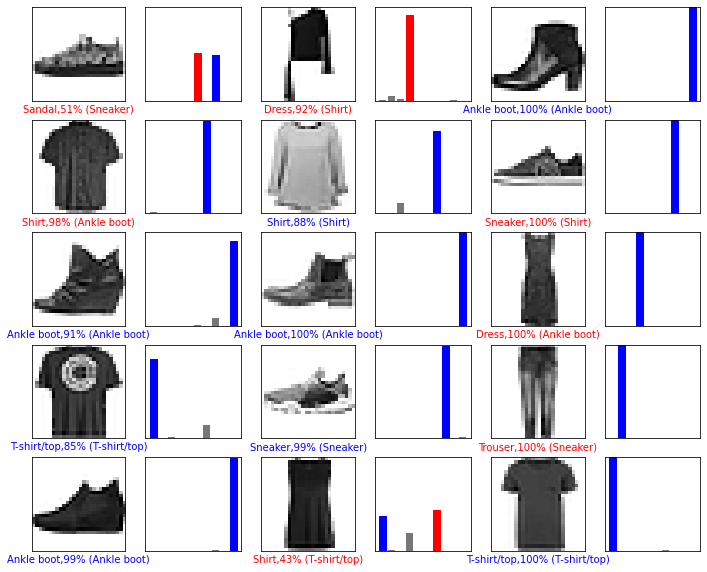
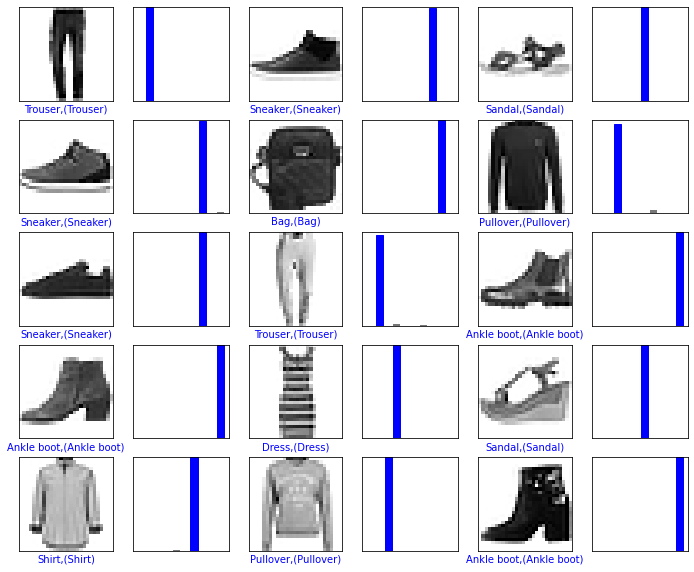
feedforward

diff --git a/feedforward/README.md b/feedforward/README.md
@@ -340,68 +340,73 @@ print(metric)
 #### 预测
 
 ```python
-# 预测
+class_names = ['T-shirt/top', 'Trouser', 'Pullover', 'Dress', 'Coat',
+               'Sandal', 'Shirt', 'Sneaker', 'Bag', 'Ankle boot']
+
+#从测试集中取出一组样本，输入模型进行预测
 test_ = ds_test.create_dict_iterator().get_next()
+#利用key值选出样本
 test = Tensor(test_['x'], mindspore.float32)
 predictions = model.predict(test)
 softmax = nn.Softmax()
 predictions = softmax(predictions)
+
 predictions = predictions.asnumpy()
+true_label = test_['y'].asnumpy()
+true_image = test_['x'].asnumpy()
+
 for i in range(15):
     p_np = predictions[i, :]
-    p_list = p_np.tolist()
-    print('第' + str(i) + '个sample预测结果：', p_list.index(max(p_list)), '   真实结果：', test_['y'][i])
+    pre_label = np.argmax(p_np)
+    print('第' + str(i) + '个sample预测结果：', class_names[pre_label], '   真实结果：', class_names[true_label[i]])
 ```
 
-    第0个sample预测结果： 5    真实结果： 0
-    第1个sample预测结果： 3    真实结果： 6
-    第2个sample预测结果： 9    真实结果： 9
-    第3个sample预测结果： 6    真实结果： 6
-    第4个sample预测结果： 6    真实结果： 6
-    第5个sample预测结果： 7    真实结果： 7
-    第6个sample预测结果： 9    真实结果： 9
-    第7个sample预测结果： 9    真实结果： 9
-    第8个sample预测结果： 3    真实结果： 3
-    第9个sample预测结果： 0    真实结果： 0
-    第10个sample预测结果： 7    真实结果： 7
-    第11个sample预测结果： 1    真实结果： 1
-    第12个sample预测结果： 9    真实结果： 9
-    第13个sample预测结果： 6    真实结果： 0
-    第14个sample预测结果： 0    真实结果： 0
+    第0个sample预测结果： Trouser    真实结果： Trouser
+    第1个sample预测结果： Sneaker    真实结果： Sneaker
+    第2个sample预测结果： Sandal    真实结果： Sandal
+    第3个sample预测结果： Sneaker    真实结果： Sneaker
+    第4个sample预测结果： Bag    真实结果： Bag
+    第5个sample预测结果： Pullover    真实结果： Pullover
+    第6个sample预测结果： Sneaker    真实结果： Sneaker
+    第7个sample预测结果： Trouser    真实结果： Trouser
+    第8个sample预测结果： Ankle boot    真实结果： Ankle boot
+    第9个sample预测结果： Ankle boot    真实结果： Ankle boot
+    第10个sample预测结果： Dress    真实结果： Dress
+    第11个sample预测结果： Sandal    真实结果： Sandal
+    第12个sample预测结果： Shirt    真实结果： Shirt
+    第13个sample预测结果： Pullover    真实结果： Pullover
+    第14个sample预测结果： Ankle boot    真实结果： Ankle boot
 
 #### 对预测结果可视化
 
 ```python
 # -------------------定义可视化函数--------------------------------
 # 输入预测结果序列，真实标签序列，以及图片序列
-# 目标是根据预测值对错，让其标签显示为红色或者蓝色。对：标签为红色；错：标签为蓝色
-def plot_image(predictions_array, true_label, img):
+# 目标是根据预测值对错，让其标签显示为红色或者蓝色。对：标签为蓝色；错：标签为红色
+def plot_image(predicted_label, true_label, img):
     plt.grid(False)
     plt.xticks([])
     plt.yticks([])
     # 显示对应图片
     plt.imshow(img, cmap=plt.cm.binary)
     # 显示预测结果的颜色，如果对上了是蓝色，否则为红色
-    predicted_label = np.argmax(predictions_array)
     if predicted_label == true_label:
         color = 'blue'
     else:
         color = 'red'
     # 显示对应标签的格式，样式
-    plt.xlabel('{},{:2.0f}% ({})'.format(class_names[predicted_label],
-                                         100 * np.max(predictions_array),
-                                         class_names[true_label]), color=color)
+    plt.xlabel('{},({})'.format(class_names[predicted_label],
+                                    class_names[true_label]), color=color)
 ```
 
 ```python
 # 将预测的结果以柱状图形状显示蓝对红错
-def plot_value_array(predictions_array, true_label):
+def plot_value_array(predicted_label, true_label,predicted_array):
     plt.grid(False)
     plt.xticks([])
     plt.yticks([])
-    this_plot = plt.bar(range(10), predictions_array, color='#777777')
+    this_plot = plt.bar(range(10), predicted_array, color='#777777')
     plt.ylim([0, 1])
-    predicted_label = np.argmax(predictions_array)
     this_plot[predicted_label].set_color('red')
     this_plot[true_label].set_color('blue')
 ```
@@ -412,14 +417,15 @@ num_rows = 5
 num_cols = 3
 num_images = num_rows * num_cols
 plt.figure(figsize=(2 * 2 * num_cols, 2 * num_rows))
-class_names = ['T-shirt/top', 'Trouser', 'Pullover', 'Dress', 'Coat',
-               'Sandal', 'Shirt', 'Sneaker', 'Bag', 'Ankle boot']
+
 for i in range(num_images):
     plt.subplot(num_rows, 2 * num_cols, 2 * i + 1)
     pred_np_ = predictions[i, :]
-    plot_image(pred_np_, test_['y'][i].asnumpy(), test_['x'][i, 0, ...].asnumpy())
+    predicted_label = np.argmax(pred_np_)
+    image_single = true_image[i, 0, ...]
+    plot_image(predicted_label, true_label[i], image_single)
     plt.subplot(num_rows, 2 * num_cols, 2 * i + 2)
-    plot_value_array(pred_np_, test_['y'][i].asnumpy())
+    plot_value_array(predicted_label, true_label[i], pred_np_)
 plt.show()
 ```
 
